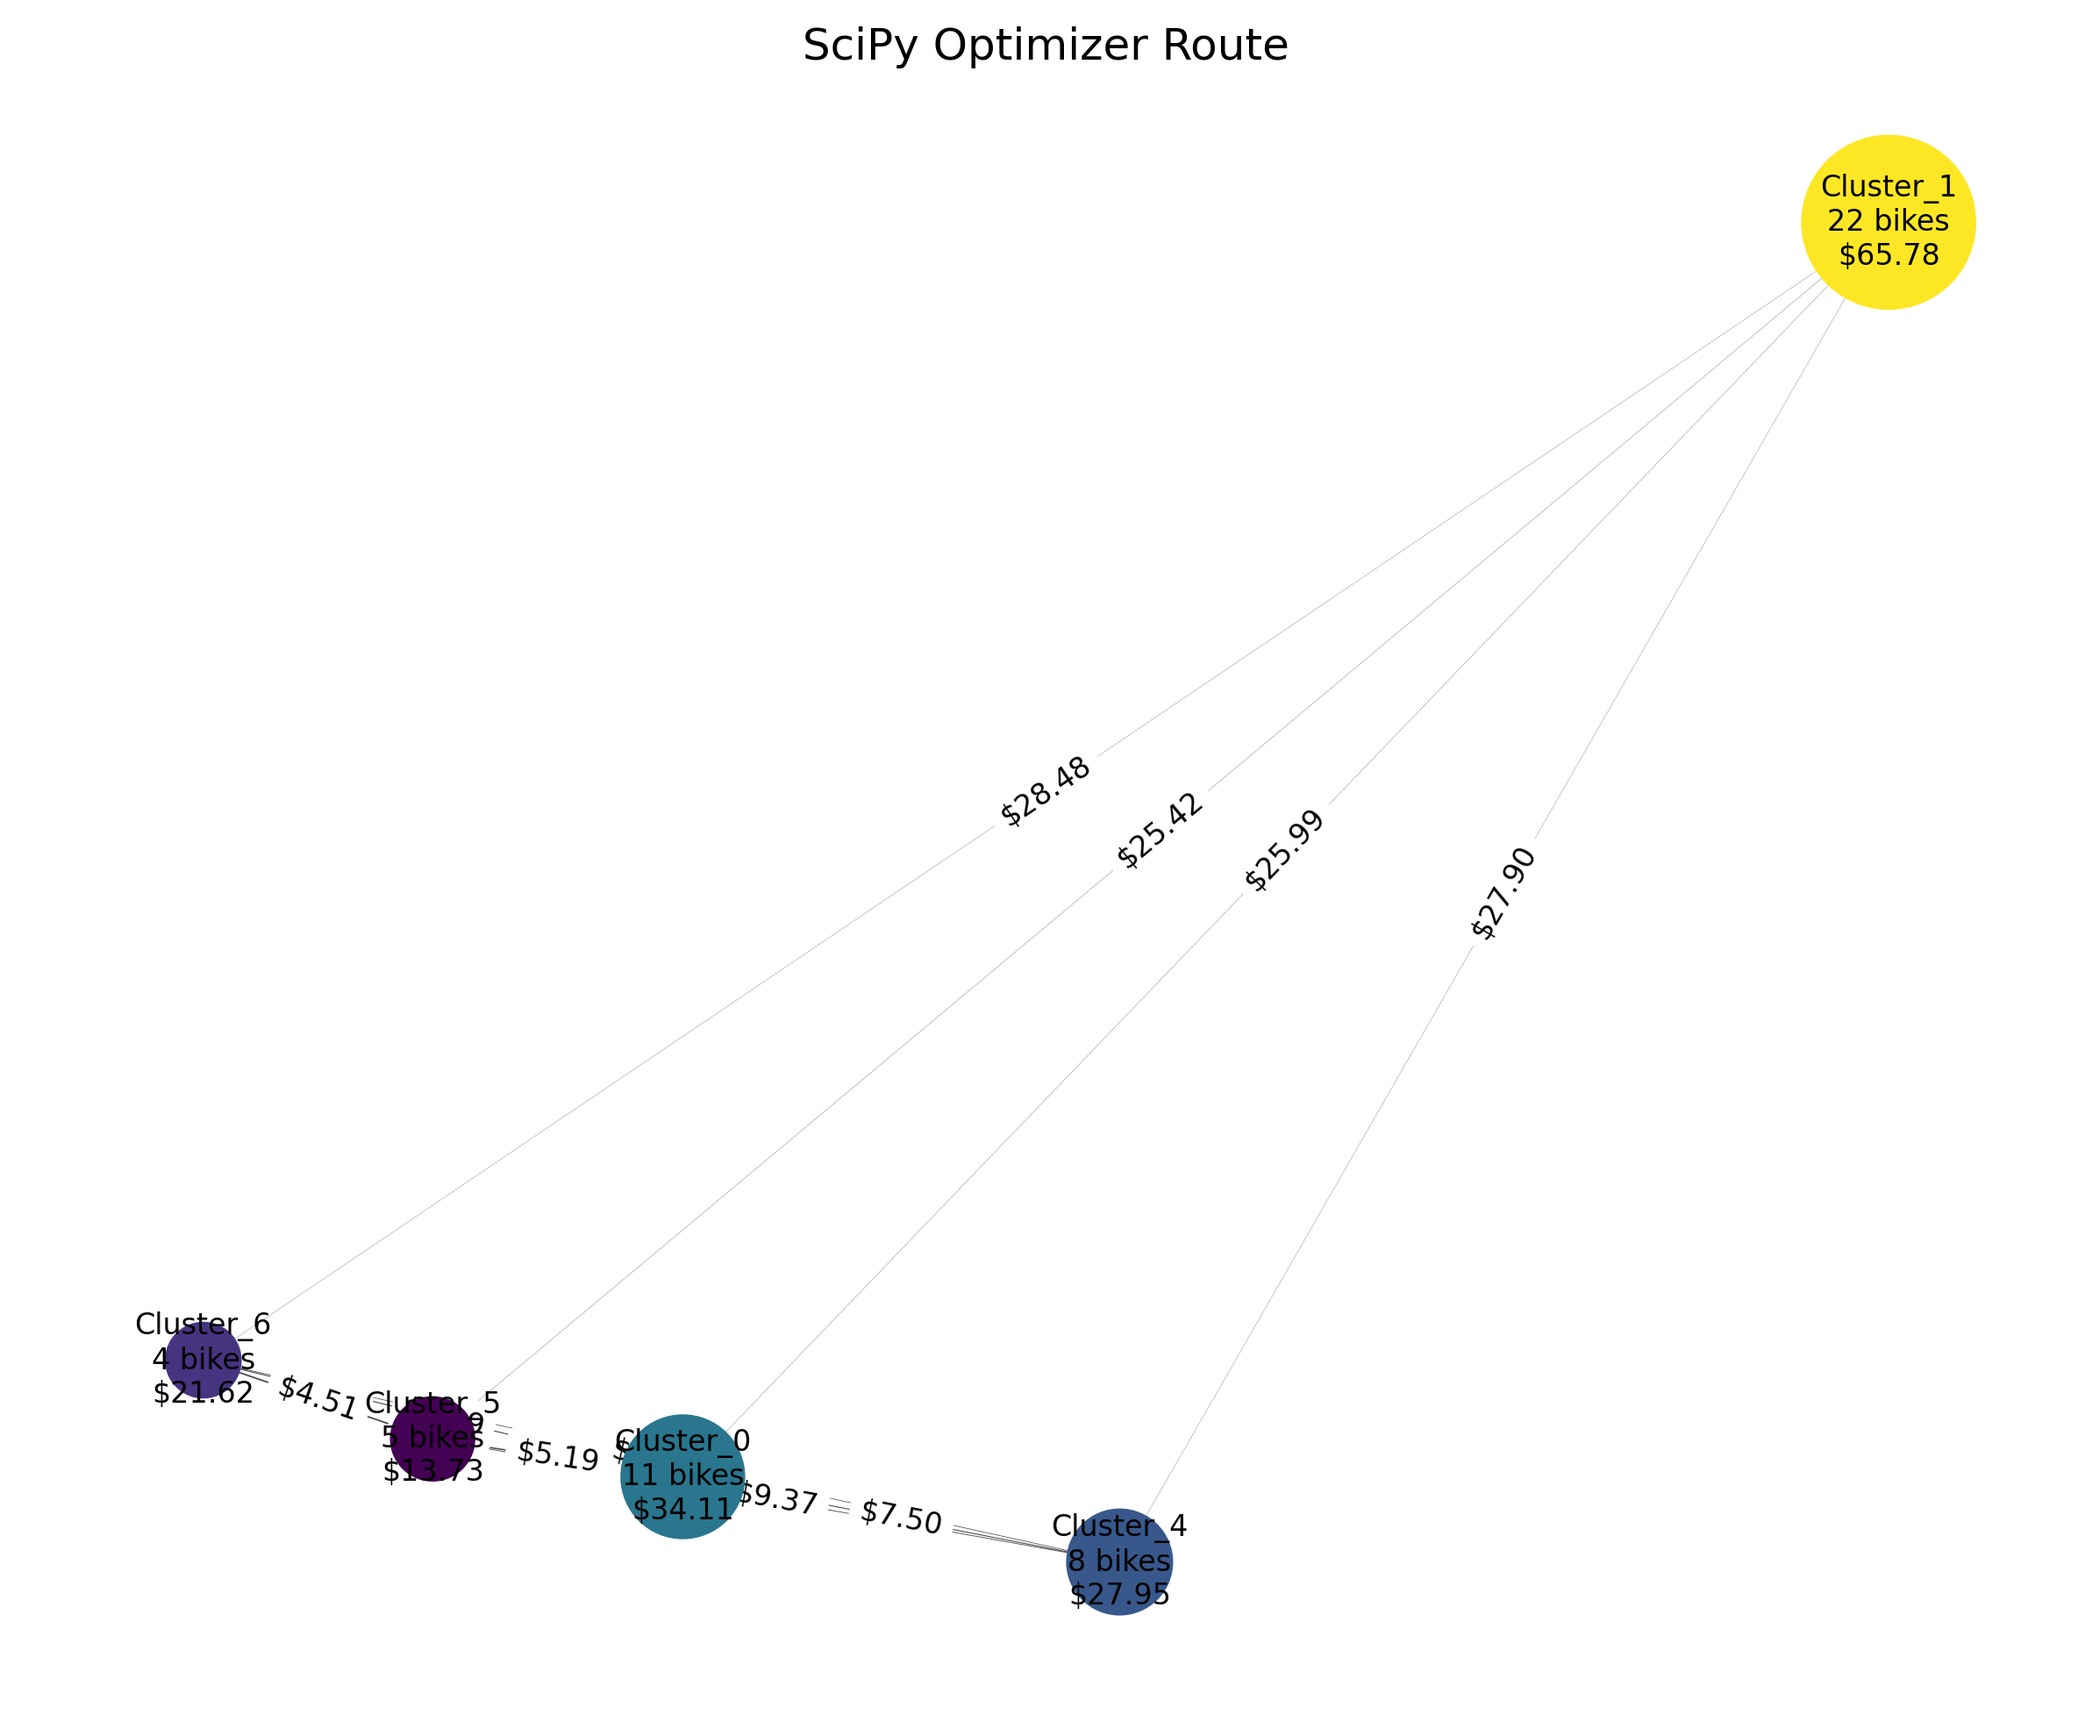
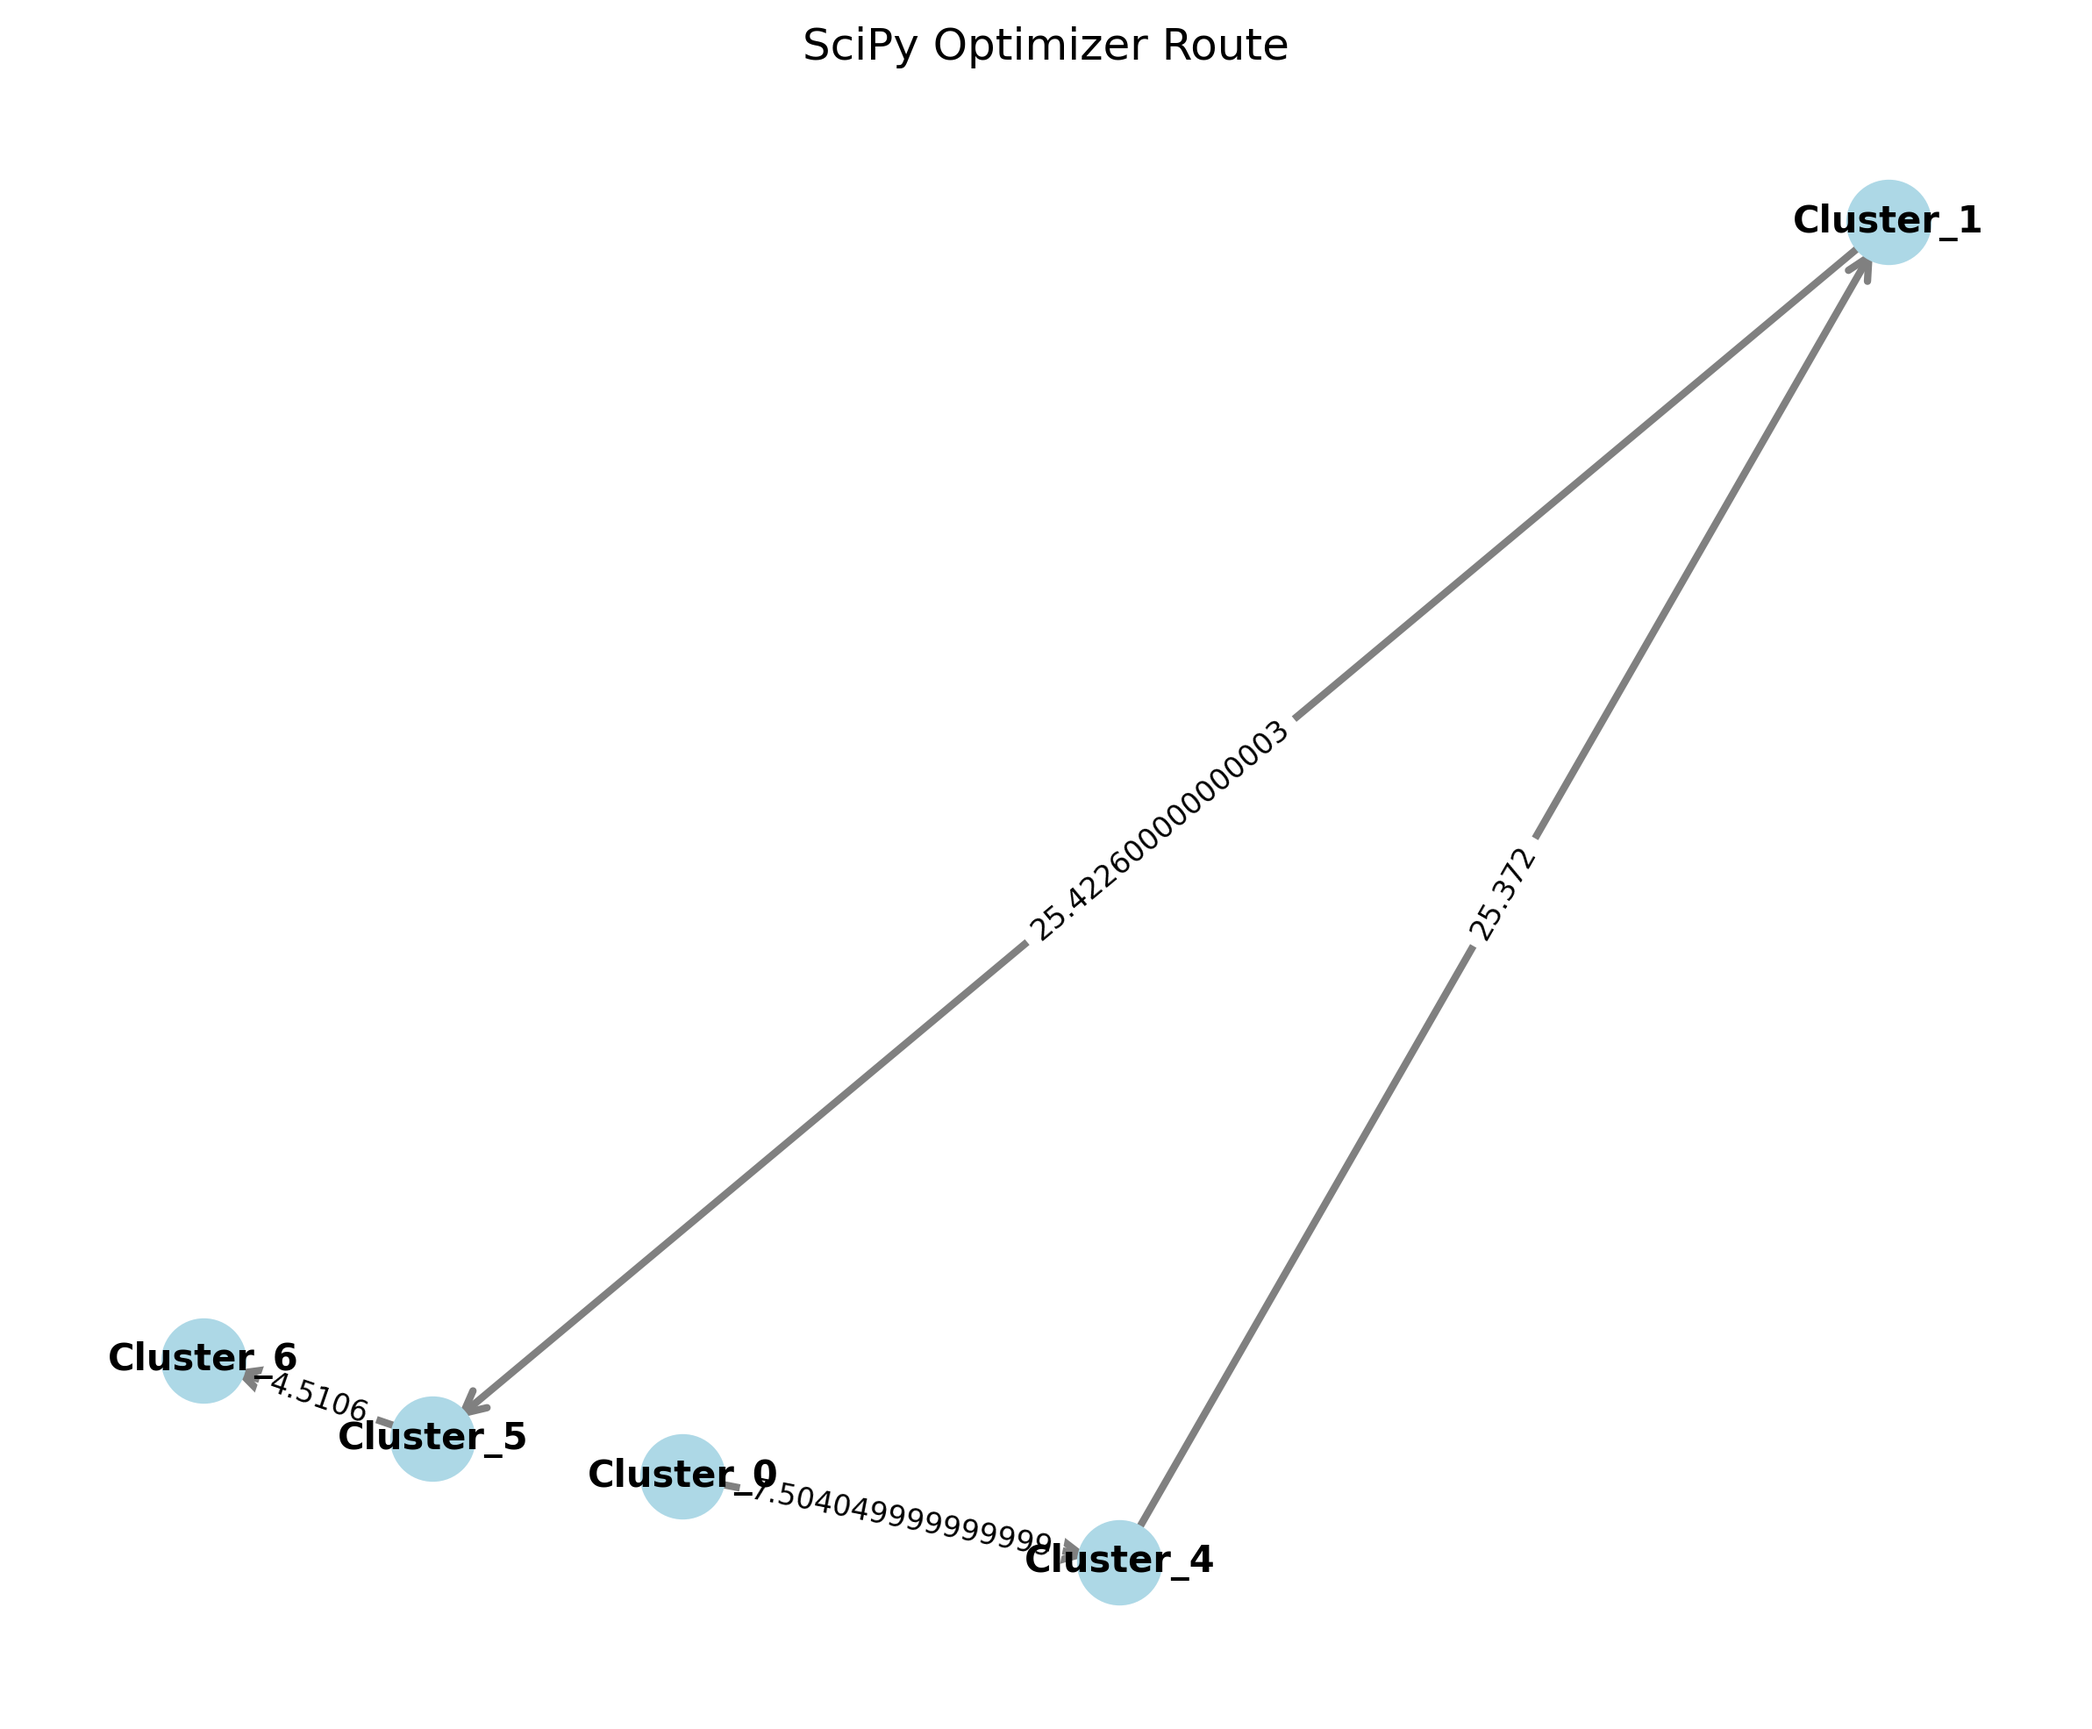
added direction and best path to scipy_route_optimizer

diff --git a/REALBIKESTUFF/Hybrid_Quantum_Algorithm/scipy_route_optimizer.py b/REALBIKESTUFF/Hybrid_Quantum_Algorithm/scipy_route_optimizer.py
@@ -264,87 +264,79 @@ def calculate_route_metrics(selected_clusters, clusters, cost_matrix):
     }
 
 
-def visualize_route(selected_clusters, clusters, cost_matrix, title="Optimizer Route", filename="route.png"):
+def visualize_route(selected_clusters, clusters, cost_matrix, title="Best Route", filename="best_route.png"):
     """
-    Visualize the selected route as a network graph
+    Visualize the best route (optimal ordering) among the selected clusters.
+    This function computes a TSP route (using a simple heuristic) and draws only that path.
     
     Args:
-        selected_clusters: List of selected cluster names
-        clusters: List of cluster data
-        cost_matrix: Travel costs between clusters
+        selected_clusters: List of selected cluster names (e.g. ['Cluster_1', 'Cluster_7'])
+        clusters: List of all clusters with their data
+        cost_matrix: Dictionary with travel costs between clusters
         title: Title for the visualization
         filename: Filename to save the visualization
     """
-    # Create a graph
-    G = nx.Graph()
-    
-    # Add nodes for selected clusters
+    import networkx as nx
+    import matplotlib.pyplot as plt
+    import os
+
+    # Create a complete graph over the selected clusters.
+    # We'll label nodes using their names.
+    G = nx.complete_graph(len(selected_clusters))
+    mapping = {i: selected_clusters[i] for i in range(len(selected_clusters))}
+    G = nx.relabel_nodes(G, mapping)
+
+    # Set positions for nodes from the clusters' center coordinates.
+    pos = {}
     for cluster_name in selected_clusters:
         cluster_idx = int(cluster_name.split('_')[1])
-        cluster = clusters[cluster_idx]
-        
-        # Add node with attributes
-        G.add_node(
-            cluster_name, 
-            pos=tuple(cluster['center']), 
-            bikes=abs(cluster['total_adjustment']),
-            benefit=cluster['total_payout_benefit']
-        )
+        pos[cluster_name] = tuple(clusters[cluster_idx]['center'])
     
-    # Add edges between all selected clusters with costs as weights
-    for i, cluster_from in enumerate(selected_clusters):
-        for j, cluster_to in enumerate(selected_clusters):
-            if i < j:  # Only add each edge once
-                if cluster_from in cost_matrix and cluster_to in cost_matrix[cluster_from]:
-                    cost = cost_matrix[cluster_from][cluster_to]
-                    G.add_edge(cluster_from, cluster_to, weight=cost)
+    # Set edge weights in the complete graph using the cost matrix.
+    for i in range(len(selected_clusters)):
+        for j in range(i + 1, len(selected_clusters)):
+            n1 = selected_clusters[i]
+            n2 = selected_clusters[j]
+            weight = cost_matrix.get(n1, {}).get(n2, 0)
+            G[n1][n2]['weight'] = weight
+            G[n2][n1]['weight'] = weight
+
+    # Compute a TSP route (this returns a cycle).
+    try:
+        tsp_route = nx.approximation.traveling_salesman_problem(G, weight='weight', cycle=True)
+        # Remove the last node if it repeats the first to get a simple path.
+        if tsp_route[0] == tsp_route[-1]:
+            tsp_route = tsp_route[:-1]
+    except Exception as e:
+        print(f"Error computing TSP route: {e}")
+        tsp_route = selected_clusters  # Fallback: use the order of selection
+
+    # Create a directed graph H to represent the path.
+    H = nx.DiGraph()
+    for i in range(len(tsp_route) - 1):
+        n1 = tsp_route[i]
+        n2 = tsp_route[i+1]
+        weight = cost_matrix.get(n1, {}).get(n2, 0)
+        H.add_edge(n1, n2, weight=weight)
+    for node in tsp_route:
+        H.add_node(node, pos=pos[node])
     
-    # If there are no edges (only one node), add a self-loop
-    if len(G.edges) == 0 and len(G.nodes) == 1:
-        node = list(G.nodes)[0]
-        G.add_edge(node, node, weight=0)
-    
-    # Create figure
+    # Draw the route.
     plt.figure(figsize=(10, 8))
-    
-    # Get positions from node attributes
-    pos = nx.get_node_attributes(G, 'pos')
-    
-    # Draw nodes with size proportional to bikes and color to benefit
-    node_sizes = [G.nodes[n]['bikes'] * 100 for n in G.nodes]
-    node_colors = [G.nodes[n]['benefit'] for n in G.nodes]
-    
-    nx.draw_networkx_nodes(G, pos, node_size=node_sizes, node_color=node_colors, cmap=plt.cm.viridis)
-    
-    # Draw edges with width proportional to inverse of cost
-    edge_widths = [1 / (G.edges[e]['weight'] + 0.1) * 2 for e in G.edges]
-    nx.draw_networkx_edges(G, pos, width=edge_widths, alpha=0.7)
-    
-    # Draw node labels
-    labels = {}
-    for n in G.nodes:
-        cluster_idx = int(n.split('_')[1])
-        bikes = abs(clusters[cluster_idx]['total_adjustment'])
-        benefit = clusters[cluster_idx]['total_payout_benefit']
-        labels[n] = f"{n}\n{bikes} bikes\n${benefit:.2f}"
-    
-    nx.draw_networkx_labels(G, pos, labels=labels, font_size=8)
-    
-    # Draw edge labels
-    edge_labels = {e: f"${G.edges[e]['weight']:.2f}" for e in G.edges}
-    nx.draw_networkx_edge_labels(G, pos, edge_labels=edge_labels, font_size=8)
-    
+    nx.draw_networkx_nodes(H, pos, node_size=500, node_color='lightblue')
+    nx.draw_networkx_labels(H, pos, font_size=10, font_weight='bold')
+    nx.draw_networkx_edges(H, pos, arrowstyle='->', arrowsize=15, edge_color='gray', width=2)
+    edge_labels = nx.get_edge_attributes(H, 'weight')
+    nx.draw_networkx_edge_labels(H, pos, edge_labels=edge_labels, font_size=8)
     plt.title(title)
     plt.axis('off')
     
-    # Create exports directory if it doesn't exist
+    # Save the figure.
     base_dir = os.path.dirname(os.path.abspath(__file__))
     export_dir = os.path.join(base_dir, "exports")
     os.makedirs(export_dir, exist_ok=True)
-    
-    # Save figure
     plt.savefig(os.path.join(export_dir, filename), dpi=300, bbox_inches='tight')
-    print(f"Route visualization saved to {filename}")
+    print(f"Best route visualization saved to {filename}")
     plt.close()
 
 
